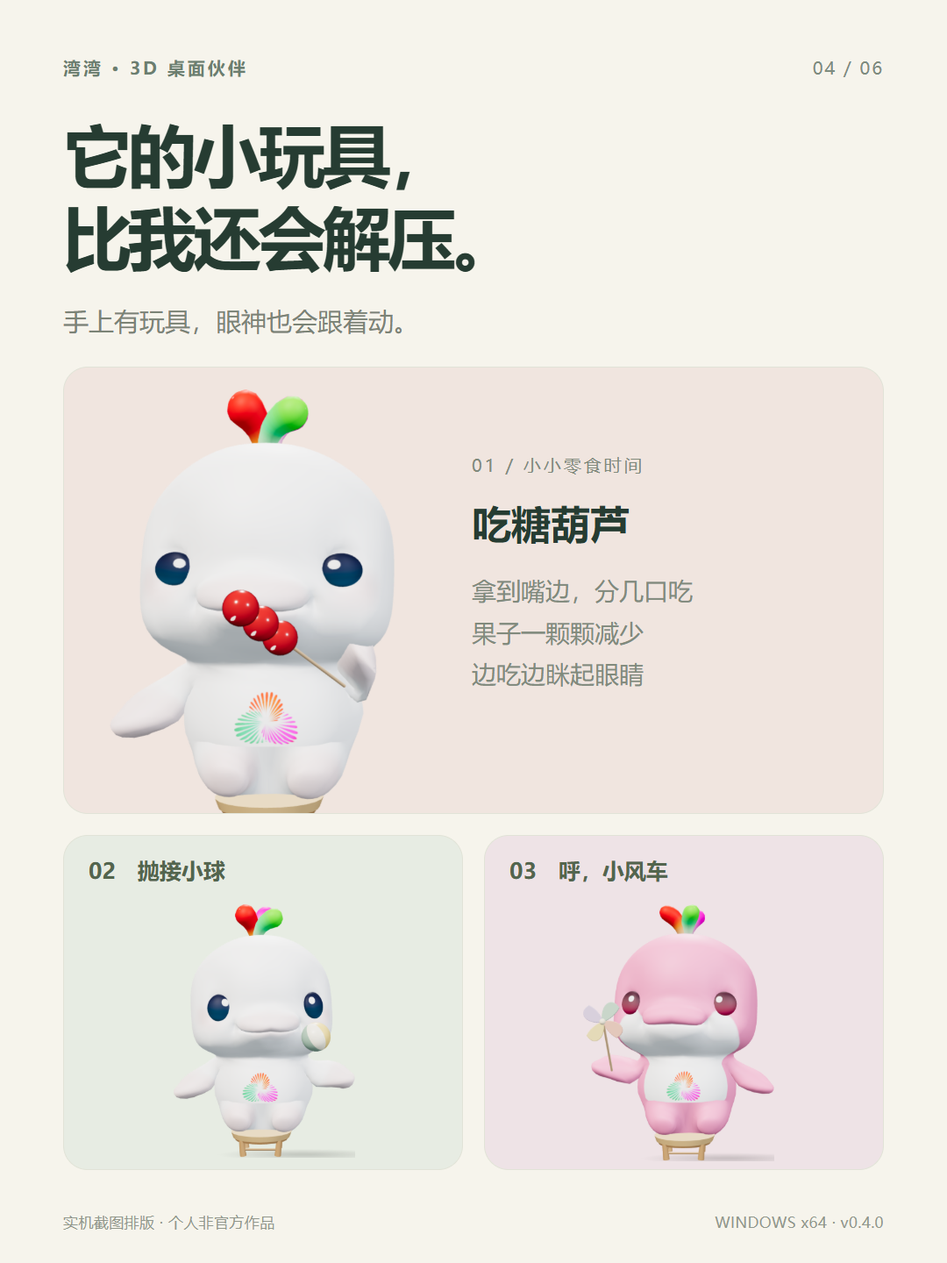
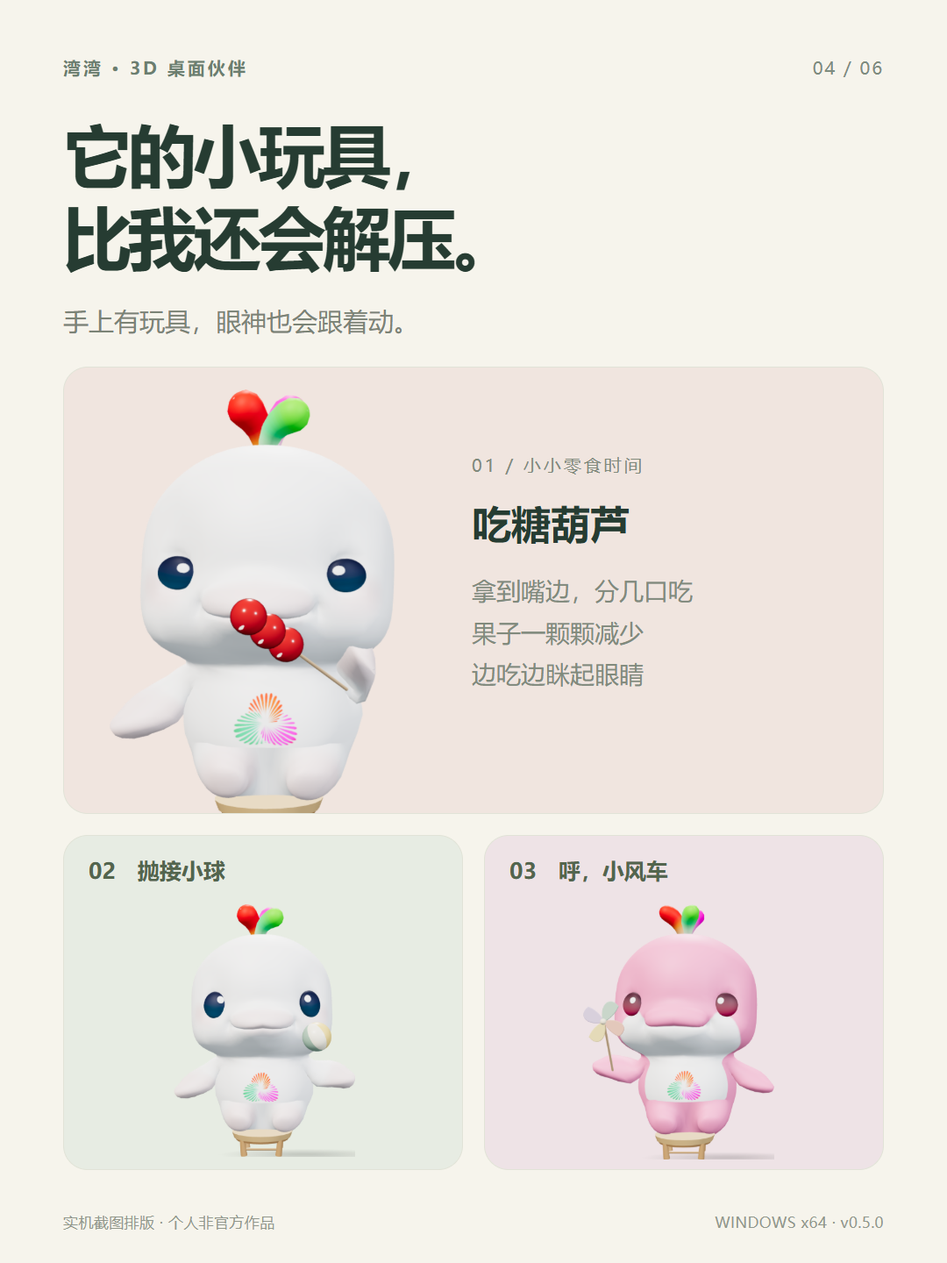
Release v0.5.0 with separate move/orbit gestures and reliable desktop controls

diff --git a/src/pet.js b/src/pet.js
@@ -6,14 +6,17 @@ import { createOrbit,rotateOrbit,zoomOrbit,resetOrbit,stepOrbit } from './orbit.
 import { createProps } from './props.js';
 import { dockAnchor } from './layout.mjs';
 import { createInteractionState,chooseReaction,surfacePart } from './interactions.mjs';
+import { beginGesture,moveGesture,gestureResult } from './gestures.mjs';
 import whiteBytes from '../assets/models/white.glb';
 import pinkBytes from '../assets/models/pink.glb';
 
 const api=window.bay,canvas=document.querySelector('canvas'),bubble=document.querySelector('#bubble'),dock=document.querySelector('#pet-dock');
 decorateIcons();
+function showError(message){document.querySelector('#load-status').hidden=true;document.querySelector('#load-error').hidden=false;document.querySelector('#error-message').textContent=message;document.querySelector('#pet-dock').hidden=true;}
+document.querySelector('#retry-load').onclick=()=>api.reloadPet();
 let renderer;
 try { renderer=new THREE.WebGLRenderer({canvas,alpha:true,antialias:true,powerPreference:'low-power'}); }
-catch { bubble.textContent='三维渲染不可用，请更新显卡驱动后重启。';throw Error('WebGL unavailable'); }
+catch { showError('三维显示暂时不可用，请重试或更新显卡驱动。');throw Error('WebGL unavailable'); }
 renderer.setPixelRatio(Math.min(devicePixelRatio,1.75));renderer.setSize(innerWidth,innerHeight,false);renderer.setClearColor(0,0);
 renderer.outputColorSpace=THREE.SRGBColorSpace;renderer.toneMapping=THREE.ACESFilmicToneMapping;renderer.toneMappingExposure=1.04;
 const scene=new THREE.Scene(),aspect=innerWidth/innerHeight;
@@ -31,7 +34,7 @@ function resizeScene(){const w=innerWidth,h=innerHeight,dpr=Math.min(devicePixel
 new ResizeObserver(resizeScene).observe(document.documentElement);window.addEventListener('resize',resizeScene);
 function watchDpi(){matchMedia(`(resolution: ${devicePixelRatio}dppx)`).addEventListener('change',()=>{resizeScene();watchDpi();},{once:true});}watchDpi();
 let config={skin:'white',scale:1,autoMotion:true,eyeTracking:true,motionSpeed:1,motionIntensity:1},ready=false;
-Promise.all([[whiteBytes,'white'],[pinkBytes,'pink']].map(async([bytes,name])=>{const c=await loadCharacter(bytes,name);models[name]=c;modelInfo[name]=c.info;root.add(c.group);})).then(()=>{ready=true;selectModel();}).catch(error=>{say('模型加载失败，请重新打开桌宠。',60000);console.error(error);});
+Promise.all([[whiteBytes,'white'],[pinkBytes,'pink']].map(async([bytes,name])=>{const c=await loadCharacter(bytes,name);models[name]=c;modelInfo[name]=c.info;root.add(c.group);})).then(()=>{ready=true;selectModel();document.querySelector('#load-status').hidden=true;dock.hidden=false;say('左键拖动搬家 · 右键拖动旋转\n轻点互动 · 滚轮缩放',7000);}).catch(error=>{showError('模型未能加载。点击重试，或重新打开桌宠。');console.error(error);});
 function selectModel(){for(const [name,c]of Object.entries(models))c.group.visible=name===config.skin;}
 const shadowCanvas=document.createElement('canvas');shadowCanvas.width=128;shadowCanvas.height=128;
 const ctx=shadowCanvas.getContext('2d'),gradient=ctx.createRadialGradient(64,64,8,64,64,64);gradient.addColorStop(0,'rgba(0,0,0,.15)');gradient.addColorStop(1,'rgba(0,0,0,0)');ctx.fillStyle=gradient;ctx.fillRect(0,0,128,128);
@@ -52,9 +55,9 @@ function action(name){
 }
 api.on('action',action);api.on('bubble',text=>say(text,7000));
 function settings(state){config=state.settings;if(ready)selectModel();}
-api.on('state',settings);api.getState().then(settings);say('拖动转一转，看看我的另一面。',3800);
+api.on('state',settings);api.getState().then(settings);
 function updateCursor(x,y){cursor={x:THREE.MathUtils.clamp((x-innerWidth/2)/(innerWidth*.65),-1,1),y:THREE.MathUtils.clamp((innerHeight*.44-y)/(innerHeight*.55),-1,1),near:x> -innerWidth*.4&&x<innerWidth*1.4&&y> -innerHeight*.3&&y<innerHeight*1.3};document.body.classList.toggle('near',x>0&&x<innerWidth&&y>0&&y<innerHeight);}
-function updateHit(x,y){if(pointer)return;const inside=x>=0&&y>=0&&x<innerWidth&&y<innerHeight;
+function updateHit(x,y){if(pointer||dragging)return;const inside=x>=0&&y>=0&&x<innerWidth&&y<innerHeight;
   const ui=inside&&document.elementsFromPoint(x,y).some(el=>el.matches('button,nav,[data-interactive]'));
   const next=!(inside&&(ui||hit(x,y)));ignore=next;api.ignoreMouse(next);
 }
@@ -63,15 +66,16 @@ document.querySelectorAll('[data-action]').forEach(b=>b.onclick=()=>api.action(b
 document.querySelector('#more-actions').onclick=()=>api.togglePanel();
 document.querySelector('#reset-view').onclick=()=>action('reset-view');
 const mover=document.querySelector('#move-pet');
-mover.onpointerdown=e=>{e.preventDefault();mover.setPointerCapture(e.pointerId);api.ignoreMouse(false);api.dragStart();dragging=true;};
-function endMove(){if(dragging&&!pointer){dragging=false;api.dragEnd();}}
-mover.onpointerup=endMove;mover.onpointercancel=endMove;mover.onlostpointercapture=endMove;
+let clickTimer;
+mover.onpointerdown=e=>{if(e.button===0)press(e,true);};
 window.addEventListener('pointermove',e=>{
   updateCursor(e.clientX,e.clientY);updateHit(e.clientX,e.clientY);
-  canvas.style.cursor=hit(e.clientX,e.clientY)?(pointer?'grabbing':'grab'):'default';
-  if(pointer){const dx=e.clientX-pointer.lastX,dy=e.clientY-pointer.lastY;pointer.lastX=e.clientX;pointer.lastY=e.clientY;
-    if(Math.hypot(e.clientX-pointer.x,e.clientY-pointer.y)>4)pointer.moved=true;
-    if(pointer.moved){if(pointer.moveWindow){if(!dragging){dragging=true;api.dragStart();}}else{orbit.dragging=true;rotateOrbit(orbit,dx,dy);}}
+  canvas.style.cursor=pointer?.moved?'grabbing':hit(e.clientX,e.clientY)?'grab':'default';
+  if(pointer){
+    if(e.buttons===0)return finish(e,true);
+    const change=moveGesture(pointer,e);if(!change)return;
+    if(change.started)clearTimeout(clickTimer);
+    if(change.moving){if(change.purpose==='move'){if(!dragging){dragging=true;api.dragStart({x:pointer.x,y:pointer.y});}}else{orbit.dragging=true;rotateOrbit(orbit,change.dx,change.dy);}}
   }
 });
 const facePoint=new THREE.Vector3(),faceVertex=new THREE.Vector3();
@@ -80,13 +84,43 @@ function pickedPart(selected){
   if(face){for(const index of [face.a,face.b,face.c])facePoint.add(faceVertex.fromBufferAttribute(attr,index));facePoint.multiplyScalar(1/3);}else facePoint.copy(root.worldToLocal(selected.point.clone()));
   return surfacePart(facePoint,selected.object.userData.bodyPart);
 }
-canvas.addEventListener('pointerdown',e=>{const selected=pick(e.clientX,e.clientY);if(!selected)return;pointer={x:e.clientX,y:e.clientY,lastX:e.clientX,lastY:e.clientY,moved:false,button:e.button,moveWindow:e.shiftKey||e.button===1,propAction:props.actionFor(selected.object),part:pickedPart(selected)};orbit.velocityX=orbit.velocityY=0;canvas.setPointerCapture(e.pointerId);api.ignoreMouse(false);});
-function release(e){if(!pointer)return;const old=pointer;pointer=null;orbit.dragging=false;if(dragging){dragging=false;api.dragEnd();}if(e?.type!=='pointercancel'&&!old.moved){if(old.button===0){let selected=old.propAction;if(selected==='sit'&&motion.posture==='sit')selected='stand';if(!selected)selected=chooseReaction(interaction,old.part,{sleeping:motion.mode==='sleep',current:motion.mode});api.action(selected);}else if(old.button===2)api.openPanel('play');}}
-canvas.addEventListener('pointerup',release);canvas.addEventListener('pointercancel',release);window.addEventListener('blur',()=>{pointer=null;orbit.dragging=false;dragging=false;api.dragEnd();});
-canvas.addEventListener('dblclick',e=>{if(hit(e.clientX,e.clientY))action('reset-view');});
+function press(e,forceMove=false){
+  if(pointer)return;const selected=forceMove?null:pick(e.clientX,e.clientY);if(!forceMove&&!selected)return;
+  const gesture=beginGesture(e,forceMove);if(!gesture)return;e.preventDefault();canvas.focus({preventScroll:true});
+  pointer={...gesture,element:e.currentTarget,propAction:selected?props.actionFor(selected.object):null,part:selected?pickedPart(selected):null};
+  orbit.velocityX=orbit.velocityY=0;e.currentTarget.setPointerCapture(e.pointerId);ignore=false;api.ignoreMouse(false);
+}
+function finish(e,cancelled=false,rollback=false){
+  if(!pointer||(e?.pointerId!==undefined&&e.pointerId!==pointer.id))return;
+  const old=pointer,result=gestureResult(old,cancelled);pointer=null;orbit.dragging=false;
+  if(cancelled)orbit.velocityX=orbit.velocityY=0;
+  if(old.element.hasPointerCapture(old.id))old.element.releasePointerCapture(old.id);
+  if(dragging){dragging=false;api.dragEnd({cancel:rollback});}
+  if(result==='click'&&(old.part||old.propAction)){
+    clearTimeout(clickTimer);clickTimer=setTimeout(()=>{let selected=old.propAction;if(selected==='sit'&&motion.posture==='sit')selected='stand';if(!selected)selected=chooseReaction(interaction,old.part,{sleeping:motion.mode==='sleep',current:motion.mode});api.action(selected);},350);
+  }else if(result==='menu')api.openPanel('play');
+  canvas.style.cursor='grab';ignore=null;
+}
+canvas.addEventListener('pointerdown',e=>press(e));
+window.addEventListener('pointerup',e=>{if(pointer&&e.button===pointer.button)finish(e);});
+window.addEventListener('pointercancel',e=>finish(e,true));
+for(const el of[canvas,mover])el.addEventListener('lostpointercapture',e=>finish(e,true));
+window.addEventListener('blur',()=>{clearTimeout(clickTimer);finish(null,true);});
+api.on('drag:ended',()=>finish(null,true));
+canvas.addEventListener('dblclick',e=>{clearTimeout(clickTimer);if(e.button===0&&hit(e.clientX,e.clientY))action('reset-view');});
 canvas.addEventListener('contextmenu',e=>e.preventDefault());
+canvas.addEventListener('webglcontextlost',e=>{e.preventDefault();clearTimeout(clickTimer);finish(null,true);showError('三维显示已中断，点击重新加载恢复。');});
 canvas.addEventListener('wheel',e=>{e.preventDefault();if(e.shiftKey)orbit.targetYaw+=e.deltaY*.004;else zoomOrbit(orbit,e.deltaY);},{passive:false});
-canvas.addEventListener('keydown',e=>{const keys={'1':'stand','2':'sit','3':'dance','4':'jump','5':'wave','6':'sleep',' ':'pet'};if(keys[e.key]){e.preventDefault();api.action(keys[e.key]);}if(e.key==='Enter')api.openPanel('play');if(e.key==='Escape'||e.key==='r')action('reset-view');});
+canvas.addEventListener('keydown',e=>{
+  if(e.key==='Escape'){e.preventDefault();clearTimeout(clickTimer);finish(null,true,true);return;}
+  if(pointer)return;
+  const arrows={ArrowLeft:[-1,0],ArrowRight:[1,0],ArrowUp:[0,-1],ArrowDown:[0,1]};
+  if(arrows[e.key]){e.preventDefault();const[x,y]=arrows[e.key];if(e.altKey)rotateOrbit(orbit,x*16,y*16);else api.movePet(x*(e.shiftKey?40:10),y*(e.shiftKey?40:10));return;}
+  if(['+','=','-','_'].includes(e.key)){e.preventDefault();zoomOrbit(orbit,['-','_'].includes(e.key)?100:-100);return;}
+  const keys={'1':'stand','2':'sit','3':'dance','4':'jump','5':'wave','6':'sleep',' ':'pet'};
+  if(!e.repeat&&keys[e.key]){e.preventDefault();api.action(keys[e.key]);}
+  if(e.key==='Enter')api.openPanel('play');if(e.key.toLowerCase()==='r')action('reset-view');if(e.key==='F1'){e.preventDefault();api.openHelp();}
+});
 const damp=(a,b,dt,speed=10)=>THREE.MathUtils.lerp(a,b,1-Math.exp(-dt*speed));
 const screenPoint=new THREE.Vector3();
 function updateDock(ms,dt){
@@ -111,7 +145,7 @@ function animate(ms){requestAnimationFrame(animate);if(ms-lastFrame<32)return;co
   stepOrbit(orbit,dt);const distance=orbit.distance*Math.max(1,config.scale*.93);
   camera.position.set(Math.sin(orbit.yaw)*Math.cos(orbit.pitch)*distance,Math.sin(orbit.pitch)*distance,Math.cos(orbit.yaw)*Math.cos(orbit.pitch)*distance).add(cameraTarget);camera.lookAt(cameraTarget);
   const tracking={...cursor,near:cursor.near&&!pointer&&Math.cos(orbit.yaw)>.2};
-  const p=stepMotion(motion,dt,pointer?{...config,autoMotion:false}:config,tracking);lastPose=p;
+  const p=pointer?.moved&&lastPose?lastPose:stepMotion(motion,dt,pointer?{...config,autoMotion:false}:config,tracking);lastPose=p;
   if(!motion.paused){const s=.88*config.scale;root.scale.x=damp(root.scale.x,s*(1+(1-p.scaleY)*.4),dt);root.scale.y=damp(root.scale.y,s*p.scaleY,dt);root.scale.z=damp(root.scale.z,s,dt);
     root.rotation.y=p.spin+(p.yaw||0);root.rotation.z=damp(root.rotation.z,p.sway,dt);
     if(ready)poseCharacter(models[config.skin],p,dt);
@@ -125,6 +159,7 @@ function animate(ms){requestAnimationFrame(animate);if(ms-lastFrame<32)return;co
   const status={mode:motion.mode,posture:motion.posture,expression:motion.expression,paused:motion.paused},statusKey=JSON.stringify(status);
   if(statusKey!==lastStatus){lastStatus=statusKey;api.reportPet(status);document.querySelector('#pet-state').textContent=motion.paused?'暂停中':motion.mode==='idle'?(motion.posture==='sit'?'坐着陪你':'站着陪你'):(ACTIONS[motion.mode]||motion.expression);document.querySelector('#sleepy').hidden=motion.mode!=='sleep';}
   renderer.render(scene,camera);updateDock(ms,dt);
+  window.inputDiagnostics={active:!!pointer,dragging,purpose:pointer?.purpose||null,moved:!!pointer?.moved};
   const b=models[config.skin]?.bone;
   window.petDiagnostics={ready,mode:motion.mode,posture:motion.posture,sleeping:motion.mode==='sleep',skin:config.skin,paused:motion.paused,expression:motion.expression,view:{yaw:orbit.yaw,pitch:orbit.pitch,distance:orbit.distance,perspective:camera.isPerspectiveCamera},gaze:[motion.gazeX,motion.gazeY],pose:lastPose,props:props.diagnostics(),interaction:{part:interaction.lastPart,action:interaction.lastAction},layout,dock:dockPosition,rig:b?{eyeL:b.eyeL.scale.y,eyeR:b.eyeR.scale.y,eyeYaw:b.eyeL.rotation.y,headYaw:b.head.rotation.y,hipsY:b.hips.position.y,legPitch:b.legL.rotation.x}:null,models:modelInfo,meshes:renderer.info.render.calls,triangles:renderer.info.render.triangles};
 }

diff --git a/src/style.css b/src/style.css
@@ -3,6 +3,7 @@
 .settings-view{padding:12px 13px;overflow:auto;scrollbar-width:thin;scrollbar-color:#ddd transparent}.settings-heading h2{font-size:12px;font-weight:500;margin:0 0 13px;color:#777}.settings-heading .welcome-kicker{display:none}.settings-card{border:1px solid #e9e9e9;border-radius:8px;padding:11px;margin:0 0 10px}.section-caption{font-size:10px;color:#999;margin-bottom:11px}.settings-card label{display:block;font-size:10px;color:#777;margin-bottom:11px}.settings-card input:not([type=checkbox]):not([type=radio]):not([type=range]),.settings-card select{display:block;width:100%;border:1px solid #e3e3e3;border-radius:5px;padding:7px;margin-top:5px;background:#fafafa;color:#555;outline:none;font-size:10px}.settings-card input:focus,.settings-card select:focus{border-color:#aaa!important}.skin-options{display:flex;gap:10px;margin-bottom:12px}.skin-options label{display:flex;align-items:center;gap:4px;margin:0;font-size:10px}.skin-options input{accent-color:#666;margin:0}.skin-swatch{width:12px;height:12px;border:1px solid #ddd;border-radius:50%;display:inline-block}.skin-swatch.white{background:#fcfbf7}.skin-swatch.pink{background:#f0becb}.range-label{display:flex!important;align-items:center;justify-content:space-between}.range-label input{width:58%;accent-color:#777}.toggle-row{display:flex!important;justify-content:space-between;align-items:center;margin:11px 0 0!important}.toggle-row input{accent-color:#555}.muted{color:#999!important}.field-note{font-size:9px;color:#aaa;line-height:1.7;margin:10px 0 0}#key-status{font-size:8px;color:#999;margin-left:4px}.save-button{width:100%;text-align:left;padding:9px 11px;border-radius:6px;background:#333;color:#fff;font-size:11px}.save-button:hover{background:#4a4a4a}.save-button span{float:right}#settings-feedback{font-size:10px;line-height:1.5;color:#777;min-height:13px;margin:7px 0}.settings-footer{border-top:1px solid #eee;padding-top:10px;display:flex;gap:8px;align-items:center;justify-content:space-between;font-size:8px;color:#aaa;line-height:1.8}.settings-footer button{font-size:9px;color:#888;padding:3px}
 .chat-view{display:flex;flex-direction:column}.connection{display:flex;align-items:center;gap:5px;padding:10px 13px 0;color:#999;font-size:9px}.status-dot{width:4px;height:4px;background:#aaa;border-radius:50%}.online .status-dot{background:#91a388}.connection button{margin-left:auto;font-size:9px;color:#888;padding:2px}.messages{flex:1;min-height:0;overflow:auto;padding:12px 13px;scrollbar-width:thin;scrollbar-color:#ddd transparent}.welcome{padding:20px 3px 10px}.welcome-kicker{font-family:monospace;font-size:8px;letter-spacing:1px;color:#bbb}.welcome h1{font-size:23px;font-weight:400;line-height:1.55;margin:12px 0;color:#666}.welcome p{font-size:11px;line-height:1.8;color:#999;margin:0}.welcome-line{width:22px;height:1px;background:#ddd;margin:16px 0 10px}.welcome-tip{font-size:8px;color:#aaa}.suggestions{display:flex;gap:5px;padding:8px 13px 10px}.suggestions button{font-size:9px;border:1px solid #e8e8e8;border-radius:14px;padding:6px 8px;color:#999;white-space:nowrap}.composer-wrap{padding:0 10px 10px}.composer{border:1px solid #ddd;border-radius:10px;padding:9px 10px;background:#fff}.composer textarea{resize:none;outline:none;border:0;width:100%;background:transparent;font-size:11px;line-height:1.7;color:#555}.composer textarea::placeholder{color:#bbb}.composer-bottom{display:flex;align-items:center;justify-content:space-between}.composer-bottom>span{font-size:7px;color:#aaa}.composer-bottom button{background:#3c3c3c;color:#fff;width:27px;height:26px;border-radius:7px;font-size:17px}.composer-bottom #stop{font-size:9px;width:35px}.composer-note{display:flex;align-items:center;justify-content:space-between;font-size:7px;color:#aaa;margin-top:7px}.composer-note button{font-size:7px;color:#999;padding:0}.message{display:flex;flex-direction:column;align-items:flex-start;margin:10px 0;gap:4px}.message-label{font-size:8px;color:#aaa}.message-content{font-size:11px;line-height:1.8;padding:9px 11px;border-radius:3px 10px 10px;background:#f3f3f3;white-space:pre-wrap;word-break:break-word;max-width:96%;color:#666}.message.user{align-items:flex-end}.message.user .message-content{background:#fff;border:1px solid #e9e9e9;border-radius:10px 3px 10px 10px}.message.error .message-content{color:#987a69;background:#f7f3ef}.message.streaming .message-content:after{content:'●';font-size:6px;margin-left:4px;animation:blink 1s infinite}@keyframes blink{50%{opacity:0}}#toast{position:absolute;bottom:90px;left:15px;right:15px;background:#444;color:#fff;border-radius:8px;padding:10px;font-size:10px;line-height:1.7}
 .pet-page{width:100vw;height:100vh;overflow:hidden;background:transparent;user-select:none}.pet-page canvas{display:block;width:100%;height:100%;outline:none;touch-action:none}.pet-bubble{position:absolute;top:9px;left:40px;right:40px;border:1px solid #e4e4e4;background:#fffffff5;padding:8px 11px;border-radius:10px;font-size:10px;line-height:1.6;color:#777;box-shadow:0 2px 8px #00000008;pointer-events:none;z-index:2;transition:opacity .3s}.pet-bubble.quiet{opacity:0}.pet-tools{position:absolute;bottom:23px;left:50%;transform:translateX(-50%);display:flex;gap:3px;padding:4px 5px;border:1px solid #e6e6e6;border-radius:12px;background:#fffffff2;box-shadow:0 3px 10px #00000008;opacity:.16;transition:opacity .25s}.pet-page.near .pet-tools,.pet-tools:focus-within{opacity:1}.pet-tools button{display:grid;place-items:center;width:27px;height:25px;padding:4px;border-radius:6px;color:#858585}.pet-tools button svg{width:15px;height:15px}.pet-tools #move-pet{cursor:move;color:#aaa;touch-action:none}.pet-label{position:absolute;bottom:5px;left:0;right:0;text-align:center;display:flex;align-items:center;justify-content:center;gap:5px;color:#888;font-size:9px;pointer-events:none;opacity:.35;transition:opacity .25s;text-shadow:0 1px 3px #fff}.pet-page.near .pet-label{opacity:1}.pet-label #pet-state{font-size:8px;color:#aaa}.pet-label .alive-dot{width:4px;height:4px}.sleepy{position:absolute;left:73%;top:30%;font-family:monospace;font-size:18px;color:#aaa;animation:doze 3s infinite;pointer-events:none}.sleepy span{position:absolute;left:15px;top:-15px;font-size:11px;opacity:.7}@keyframes doze{50%{translate:2px -7px;opacity:.5}}@media(prefers-reduced-motion:reduce){.sleepy{animation:none}button,.pet-tools{transition:none}}
+.load-status,.load-error{position:absolute;left:24px;right:24px;top:42%;z-index:5;border:1px solid #e5e5e5;border-radius:12px;background:#fffffff5;padding:15px;color:#777;font-size:12px;line-height:1.7;text-align:center}.load-error p{margin:0 0 10px}.load-error button{padding:6px 12px;background:#333;color:white;border-radius:6px}.pet-bubble{white-space:pre-line}#controls-help{width:calc(100% - 24px);max-height:calc(100% - 28px);margin:auto;padding:17px;border:1px solid #dedede;border-radius:13px;color:#555;background:#fff;font-size:11px;scrollbar-width:thin}#controls-help::backdrop{background:#0003}#controls-help header{display:flex;align-items:center;justify-content:space-between}#controls-help header strong{font-size:13px}#controls-help header button{font-size:20px;color:#888;border-radius:5px}#controls-help .help-intro{color:#999;margin:8px 0 15px}#controls-help dl{margin:0;display:grid;grid-template-columns:68px 1fr;gap:9px 7px;line-height:1.65}#controls-help dt{font-weight:600;color:#666}#controls-help dd{margin:0;color:#999}.help-note{color:#aaa;font-size:9px;line-height:1.8;margin:13px 0 5px}.help-keys{color:#888;line-height:1.9;font-size:10px;margin:0}.help-actions{display:flex;gap:8px;margin:13px 0}.help-actions button{border:1px solid #e6e6e6;border-radius:6px;padding:7px 8px;font-size:10px}#controls-help footer{display:flex;justify-content:space-between;border-top:1px solid #eee;padding-top:10px;font-size:9px;color:#aaa}
 /* Keep the default compact view entirely visible without scrolling. */
 .play-view{padding-bottom:8px}.compact-status{padding-top:8px;padding-bottom:7px}.action-grid button{padding-top:7px;padding-bottom:7px}summary{padding-top:8px;padding-bottom:8px}.behavior-row{padding-top:9px;padding-bottom:9px}.play-footer{padding-top:3px;padding-bottom:0}
 .pet-dock{position:absolute;left:50%;top:calc(100% - 55px);transform:translateX(-50%);display:flex;flex-direction:column;align-items:center;width:max-content;max-width:calc(100% - 10px);z-index:3}.pet-dock .pet-tools{position:static;left:auto;bottom:auto;transform:none}.pet-dock .pet-label{position:static;left:auto;right:auto;bottom:auto;margin-top:5px;max-width:190px;white-space:nowrap;overflow:hidden;text-overflow:ellipsis}.toy-grid{display:grid;grid-template-columns:repeat(3,1fr);gap:4px;margin:0 0 8px}.toy-grid button{display:flex;align-items:center;justify-content:center;gap:5px;font-size:10px;padding:8px 2px;border:1px solid #e7e7e7;border-radius:6px;color:#777;background:#fbfbfb}.toy-grid button.selected{background:#ececec;color:#333}.toy-grid svg{width:15px;height:15px}

diff --git a/src/panel.html b/src/panel.html
@@ -14,7 +14,7 @@
 </div></details>
 <div class="expression-row"><button data-action="happy"><i data-icon="happy"></i>开心</button><button data-action="curious"><i data-icon="curious"></i>好奇</button><button data-action="wink"><i data-icon="wink"></i>眨眼</button><button data-action="look"><i data-icon="look"></i>张望</button></div>
 <div class="behavior-row"><label><input id="quick-auto" type="checkbox" checked>自主动作</label><label><input id="quick-eyes" type="checkbox" checked>眼神跟随</label></div>
-<div class="play-footer"><span>拖动旋转 · 滚轮缩放</span><button id="pause-motion"><i data-icon="pause"></i><span>暂停</span></button></div>
+<div class="play-footer"><button id="show-help" title="操作指南（F1）">左键搬家 · 右键旋转 ⓘ</button><button id="pause-motion"><i data-icon="pause"></i><span>暂停</span></button></div>
 </section>
 <section id="chat-view" class="view chat-view" hidden>
 <div class="connection"><span class="status-dot"></span><span id="connection-label">离线陪伴</span><button id="connect-link">连接 AI ↗</button></div>
@@ -30,6 +30,6 @@
 <div class="settings-card"><div class="section-caption">02 / 连接 AI</div><label>接口类型<select id="provider"><option value="openai">OpenAI · Responses API</option><option value="compatible">兼容接口 · Chat Completions</option></select></label><label>接口地址<input id="endpoint" type="url" value="https://api.openai.com/v1" spellcheck="false" required></label><label>模型名称<input id="model" value="gpt-6-astra" spellcheck="false" required></label><label>API Key <span id="key-status"></span><input id="apiKey" type="password" placeholder="输入密钥，保存在本机系统加密存储中" autocomplete="off" spellcheck="false"></label><label class="toggle-row muted">移除已保存的密钥<input id="clearKey" type="checkbox"></label><p class="field-note">支持 OpenAI、兼容服务和本机模型。换接口时需重新填写对应密钥。接入后会向所选服务发送当前消息和最近 24 条对话。</p></div>
 <button class="save-button" type="submit">保存设置 <span>↗</span></button><p id="settings-feedback" role="status"></p>
 </form>
-<div class="settings-footer"><span>F8 显示 / 隐藏 · Ctrl + Alt + B 互动面板<br>双击回正 · 拖动底部手柄搬家</span><button id="quit">退出桌宠</button></div>
+<div class="settings-footer"><span>F8 显示 / 隐藏 · Ctrl + Alt + B 互动面板<br>左键搬家 · 右键旋转 · 双击回正</span><button id="quit">退出桌宠</button></div>
 </section><div id="toast" role="status" hidden></div>
-</main><script src="panel.js"></script></body></html>
+<dialog id="controls-help" aria-labelledby="help-title"><form method="dialog"><header><strong id="help-title">陪湾湾玩</strong><button aria-label="关闭操作指南" autofocus>×</button></header></form><p class="help-intro">轻点是互动，拖动是操作。</p><dl><dt>左键拖动</dt><dd>移动桌宠，松开保存位置</dd><dt>右键拖动</dt><dd>左右转身，上下看俯视和仰视</dd><dt>左键轻点</dt><dd>不同部位，随机小反应</dd><dt>右键轻点</dt><dd>打开互动面板</dd><dt>滚轮 / 双击</dt><dd>缩放 / 回到正面</dd><dt>Esc</dt><dd>取消当前拖动，搬家返回原位</dd></dl><p class="help-note">先点一下玩偶，再使用键盘：</p><p class="help-keys">方向键搬家 · Shift 加快<br>Alt + 方向键旋转 · + / − 缩放<br>R 回正 · 空格摸头 · Enter 面板</p><p id="shortcut-status" class="help-note"></p><div class="help-actions"><button id="home-pet">找回桌宠</button><button id="release-link">下载新版 ↗</button></div><footer><span id="app-version"></span><span>非官方个人作品</span></footer></dialog></main><script src="panel.js"></script></body></html>

diff --git a/src/pet.html b/src/pet.html
@@ -1,8 +1,9 @@
 <!doctype html><html lang="zh-CN"><head><meta charset="UTF-8"><meta name="viewport" content="width=device-width,initial-scale=1"><meta http-equiv="Content-Security-Policy" content="default-src 'self'; script-src 'self'; style-src 'self' 'unsafe-inline'; img-src 'self' data: blob:; connect-src blob:"><title>湾湾 · 大湾鸡</title><link rel="stylesheet" href="style.css"></head><body class="pet-page">
-<canvas id="pet-canvas" aria-label="三维大湾鸡，点击脑袋、头顶、眼睛、肚子、小手、脚丫、尾巴和后背，有不同的随机反应；拖动三维旋转，滚轮缩放，双击回正" tabindex="0"></canvas>
-<div class="pet-bubble" id="bubble">嗨，我是湾湾！今天也陪着你。</div>
+<canvas id="pet-canvas" aria-label="三维大湾鸡，点击脑袋、头顶、眼睛、肚子、小手、脚丫、尾巴和后背，有不同的随机反应；左键拖动移动，右键拖动旋转，滚轮缩放，双击回正" tabindex="0" title="左键拖动移动 · 右键拖动旋转 · 滚轮缩放 · F1 帮助"></canvas>
+<div class="load-status" id="load-status" role="status">湾湾正在醒来…</div><div class="load-error" id="load-error" role="alert" data-interactive hidden><p id="error-message"></p><button id="retry-load">重新加载</button></div>
+<div class="pet-bubble quiet" id="bubble">嗨，我是湾湾！今天也陪着你。</div>
 <div id="sleepy" class="sleepy" hidden aria-hidden="true">z<span>z</span></div>
-<div id="pet-dock" class="pet-dock" data-interactive><nav class="pet-tools" aria-label="桌宠工具栏"><button id="move-pet" title="拖动搬家（或按住 Shift 拖动玩偶）" aria-label="拖动搬家"><i data-icon="move"></i></button><button data-action="pet" title="摸摸头" aria-label="摸摸头"><i data-icon="pet"></i></button><button id="reset-view" title="视角回正（双击玩偶）" aria-label="视角回正"><i data-icon="reset"></i></button><button id="more-actions" title="动作与设置" aria-label="动作与设置"><i data-icon="more"></i></button></nav>
+<div id="pet-dock" class="pet-dock" data-interactive hidden><nav class="pet-tools" aria-label="桌宠工具栏"><button id="move-pet" title="拖动搬家（或按住 Shift 拖动玩偶）" aria-label="拖动搬家"><i data-icon="move"></i></button><button data-action="pet" title="摸摸头" aria-label="摸摸头"><i data-icon="pet"></i></button><button id="reset-view" title="视角回正（双击玩偶）" aria-label="视角回正"><i data-icon="reset"></i></button><button id="more-actions" title="动作与设置" aria-label="动作与设置"><i data-icon="more"></i></button></nav>
 <div class="pet-label"><span class="alive-dot"></span>湾湾 <span id="pet-state">站着陪你</span></div>
 </div>
 <script src="pet.js"></script></body></html>

diff --git a/src/panel.js b/src/panel.js
@@ -35,6 +35,8 @@ function fillSettings() {
 }
 function update(next) {
   state = next;
+  $('#app-version').textContent=`湾湾 v${state.version}`;
+  $('#shortcut-status').textContent=`${state.shortcuts?.toggle?'F8 显示 / 隐藏':'F8 被占用，请使用托盘'} · ${state.shortcuts?.panel?'Ctrl + Alt + B 打开面板':'面板快捷键被占用，可点「…」'}`;
   $('.connection').classList.toggle('online', state.connected);
   $('#connection-label').textContent = state.connected ? `AI 已配置 · ${state.settings.model}` : '离线陪伴 · 预设回应';
   $('#connect-link').textContent = state.connected ? '连接设置 ↗' : '连接 AI ↗';
@@ -94,6 +96,12 @@ $('#settings-form').onsubmit = async e => {
   } catch { $('#settings-feedback').textContent = '保存失败，请重新打开桌宠后重试。'; } finally { button.disabled = false; }
 };
 $('#quit').onclick = () => api.quit();
+const help=$('#controls-help');
+function showHelp(){if(!help.open)help.showModal();}
+$('#show-help').onclick=showHelp;
+$('#home-pet').onclick=()=>api.home();
+$('#release-link').onclick=()=>api.openReleases();
+api.on('help:open',showHelp);
 function renderPet(p) {
   if (!p) return;
   const labels={wave:'招手',dance:'跳舞',jump:'开心蹦蹦',stretch:'伸懒腰',spin:'转圈',pet:'享受摸头',tickle:'被挠痒痒',sleep:'打瞌睡',curious:'歪头想事情',wink:'给你眨眼',look:'左顾右盼',happy:'开心眯眼',sitDown:'找凳子坐',standUp:'从凳子起身',eat:'吃糖葫芦',ball:'玩小球',pinwheel:'吹风车'};

diff --git a/docs/RELEASE-v0.5.0.md b/docs/RELEASE-v0.5.0.md
@@ -1,0 +1,41 @@
+# 湾湾大湾鸡 v0.5.0 · 操作体验更新
+
+这次将移动和旋转分到不同鼠标按键，并完善取消、帮助、故障重试与退出保存。
+
+## 操作
+
+| 操作 | 效果 |
+| --- | --- |
+| 左键拖动 | 搬家，松手保存位置 |
+| 右键拖动 | 左右转身、上下看俯视和仰视 |
+| 左键轻点 | 对应部位的随机小反应 |
+| 右键轻点 / 「…」 | 打开互动面板 |
+| 滚轮 / 双击 / R | 缩放 / 回正视角 |
+| Esc | 取消当前拖动；搬家返回原位 |
+| 方向键 / Shift + 方向键 | 搬家 / 加快 |
+| Alt + 方向键 / +、− | 旋转 / 缩放 |
+| F1 | 操作指南 |
+
+键盘操作需先点一下玩偶。F8 显示/隐藏，Ctrl + Alt + B 打开面板；若快捷键被占用，可从托盘操作。
+
+## 改进
+
+- 6 像素防抖、双击保护；搬家和转动不会同时触发摸头或弹出面板。
+- 丢失捕获、失焦、隐藏时停止拖动；拖动中暂停角色动作，松手恢复。
+- 修复高 DPI 连续移动导致窗口膨胀的问题，同时保持底栏贴近玩偶。
+- 操作指南含版本、找回桌宠、快捷键状态和下载新版入口。
+- 加载或图形显示异常时可重新加载，退出前保存位置。
+- 保留原始白粉模型、26 种动作、8 部位随机反应与三种玩具。
+
+## 下载与升级
+
+- **BayChicken-Setup-0.5.0-x64.exe**：Windows x64 安装版，中文向导。
+- **BayChicken-Portable-0.5.0-x64.exe**：单文件便携版，首次需等待解包。设置仍保存在 Windows 用户目录。
+- **BayChicken-Xiaohongshu-Kit-v0.5.0.zip**：更新后的 6 张竖图、实机截图与文案。
+- **SHA256SUMS.txt**：下载文件校验值。
+
+更新前先从托盘退出旧版，再覆盖安装或运行新的便携 EXE。沿用 `%APPDATA%/bay-chicken` 下的设置和聊天数据。不会自动联网安装更新。
+
+形象互动不需要 API Key。AI 聊天需自行配置服务，未配置时为预设回应。程序未做代码签名；已在本机 Windows x64 完成验证，实体多显示器组合尚未逐一覆盖。验证记录见 `docs/verification-v0.5.0.md`。
+
+个人非官方作品。吉祥物及标识权利归对应权利人，模型来源和第三方说明见仓库。

diff --git a/docs/verification-v0.5.0.md b/docs/verification-v0.5.0.md
@@ -1,0 +1,22 @@
+# v0.5.0 验证记录
+
+日期：2026-11-02。环境：本机 Windows x64 高 DPI 桌面，Electron 45.1.0。
+
+| 验证项目 | 结果 |
+| --- | --- |
+| `node --test tests/*.test.cjs` | 16 项通过，包含手势阈值与窗口边界 |
+| `scripts/smoke.cjs` | 三维视角、眼球、动作、白粉外观、暂停与本机模拟聊天服务回归通过 |
+| `scripts/inspect-ui.cjs` | 默认紧凑面板无需滚动，三点按钮收放通过 |
+| v0.4 → v0.5 安装升级 | 在全新隔离目录安装 v0.4 后覆盖安装 v0.5，文件版本与启动版本确认通过 |
+| 安装版 `scripts/controls-smoke.cjs` | 左键移动、右键旋转、拖动不触发反应/菜单、小幅抖动、双击、Esc 还原、捕获取消、键盘移动/旋转/缩放、帮助与版本均通过 |
+| 高 DPI 尺寸稳定 | 连续移动后窗口宽高保持一致 |
+| 故障恢复 | 主动丢失 WebGL 上下文后重试成功；强制中断渲染进程后自动重载成功 |
+| 退出保存 | 进程退出后读取隔离配置，窗口位置与退出前一致 |
+| 安装版 `scripts/props-smoke.cjs` | 底栏、窗口尺寸、3 种大小、凳子、3 种道具、8 部位随机点击通过 |
+| 单文件 `scripts/portable-smoke.cjs` | 自解压、asar/preload/模型启动、凳子与玩具通过，无渲染错误 |
+| 原始模型 | 三个 GLB 与原始 SHA-256 一致 |
+| 分享素材 | 更新的 6 张配图均为 1080×1440，保留实机截图来源记录 |
+
+GitHub Windows CI 配置见 `.github/workflows/ci.yml`：冻结依赖安装、单元测试、构建。发布前另核对当次执行结果。EXE 与素材包上传后以 GitHub 返回的 SHA-256 对照本地文件校验。
+
+所有功能测试均使用 `--smoke` 隔离数据目录。移动验证在隔离进程内使用可控原生光标替身，鼠标/键盘事件由 Playwright 注入，真实窗口的位置和尺寸由 Windows 接口检查。实体不同 DPI 多显示器组合、所有显卡驱动与不同 Windows 版本尚未逐一覆盖。测试不代表数字签名或杀毒认证，发布包未配置代码签名。

diff --git a/CHANGELOG.md b/CHANGELOG.md
@@ -1,0 +1,17 @@
+# 版本记录
+
+## v0.5.0 · 2026-11-02
+
+- 左键拖动移动桌宠；右键拖动进行双轴三维旋转。左键轻点保留部位随机互动，右键轻点打开面板。
+- 增加 6 像素拖动阈值、双击保护、指针捕获和取消处理，避免搬家后误触动作。拖动时临时停住玩偶动作，松手继续。
+- Esc 取消搬家并回到原位；失焦、丢失捕获、隐藏或显示器移除会停止拖动。
+- 修复 Windows 高 DPI 下重复移动导致窗口尺寸逐渐变大的问题，桌宠和互动面板均按固定尺寸定位。
+- 新增方向键搬家、Shift 加快、Alt + 方向键旋转、+ / − 缩放。F1 打开操作指南。
+- 小面板新增操作指南，包含版本、快捷键占用提示、找回桌宠和 GitHub 下载入口。
+- 增加模型加载状态、加载失败及图形上下文丢失后的重新加载入口。渲染进程意外退出时尝试一次自动恢复。
+- 退出前保存位置并等待写入，延续 v0.4 的设置与数据目录。保留白粉模型、26 种动作和三维道具。
+- 更新文档、截图说明及 Windows 安装版、单文件便携版。
+
+## v0.4.0 · 2026-10-29
+
+首次 GitHub 发布。三维模型、凳子、糖葫芦、小球、风车、8 部位随机互动与动态底栏；附小红书素材包。

diff --git a/docs/share/小红书文案.md b/docs/share/小红书文案.md
@@ -13,7 +13,7 @@
 
 这次最想做好的，是它陪你玩的小动作。
 
-拖一下就能转着看，正面、侧面、背面都有；滚轮还能放大缩小。白色和粉色也可以切换。
+右键拖动就能转着看，正面、侧面、背面都有；左键拖动可以搬家，滚轮还能放大缩小。白色和粉色也可以切换。
 
 我最喜欢的是「坐下」：它会发现旁边的小木凳，挪过去，抬腿坐好。然后拿串糖葫芦，一颗颗吃。还有抛接小球、吹风车，眼神会跟着一起动。🍡
 
@@ -37,7 +37,7 @@
 
 和 Codex 一起，把大湾鸡做成了 Windows 三维桌宠「湾湾」。
 
-可以拖动旋转、切换白粉两色，还会找小凳子坐下、吃糖葫芦、玩小球和风车。摸不同部位，有不同的随机小反应。界面小小的，放在桌面上陪你忙一会儿。🍡
+左键搬家、右键旋转、切换白粉两色，还会找小凳子坐下、吃糖葫芦、玩小球和风车。摸不同部位，有不同的随机小反应。界面小小的，放在桌面上陪你忙一会儿。🍡
 
 EXE 安装版和单文件便携版已放到 GitHub：MikeJack302/bay-chicken-desktop。
 
